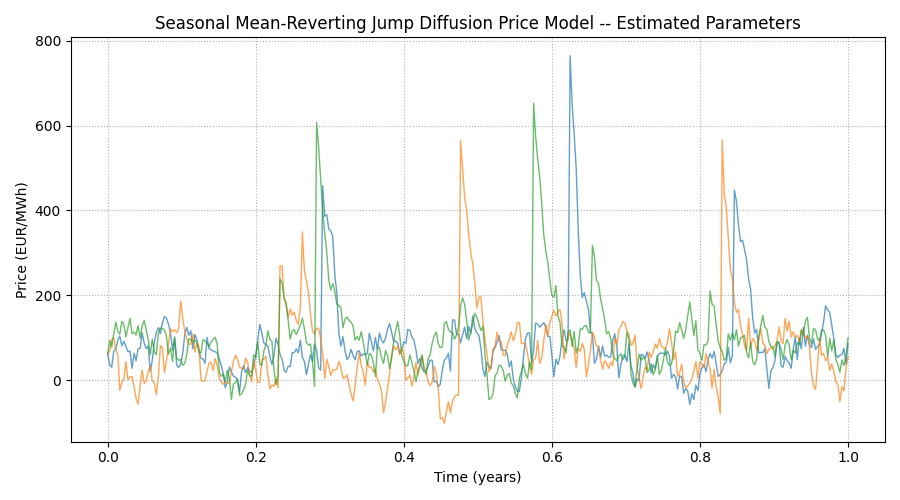
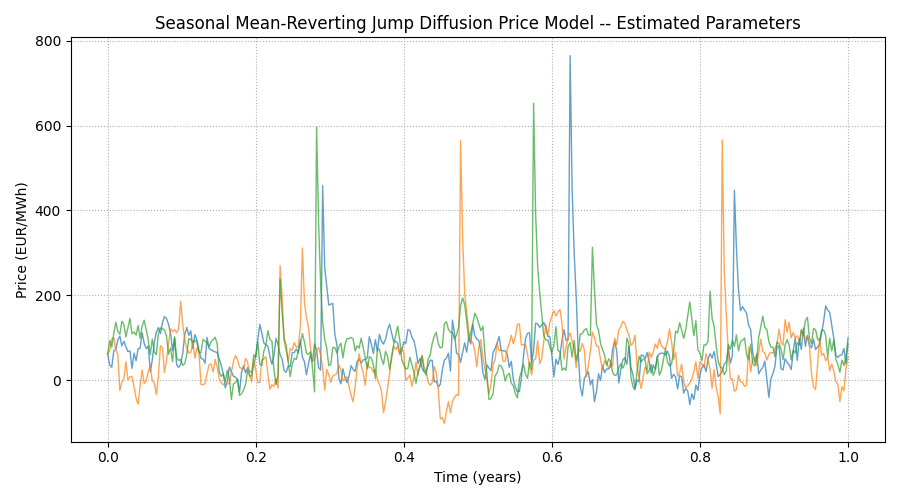
simulations with estimated kappa_J

diff --git a/experiments/config.py b/experiments/config.py
@@ -56,9 +56,6 @@ ESTIMATED_SE3_MODEL = {
     "n_spikes": 85,
     "jump_intensity": 7.2539,      # jumps/year
     "jump_scale": 241.1772,        # mean detected spike magnitude, EUR/MWh
-
-    # Not yet estimated, we use the same kappa as for OU component 
-    "jump_reversion": 62.35,        # 1/year, temporary placeholder
-
+    "jump_reversion": 212.45,       # kappa_J
     "random_seed": 123,
 }
